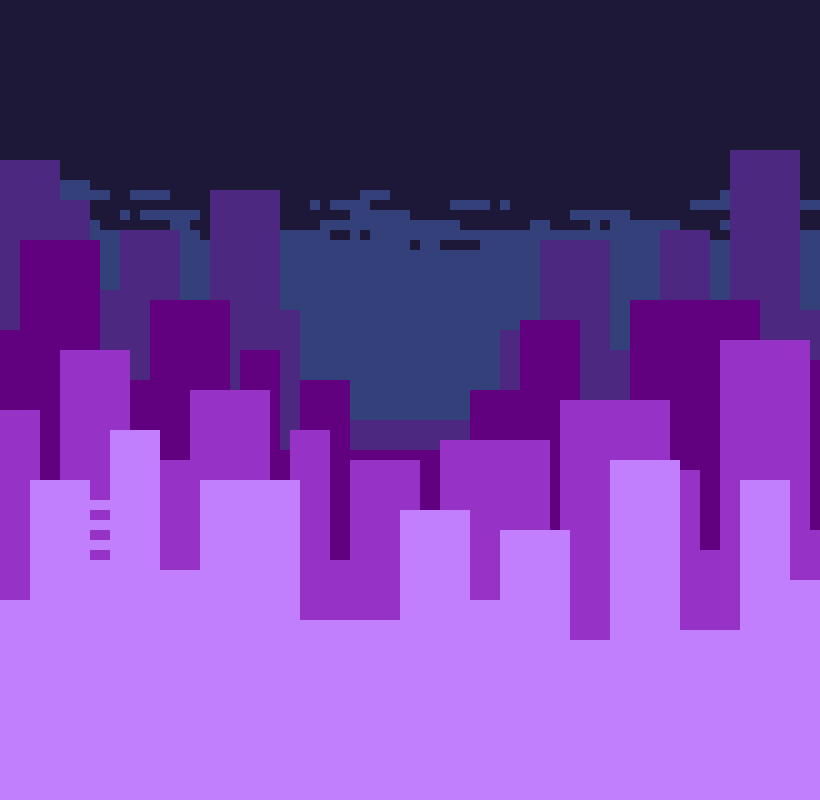
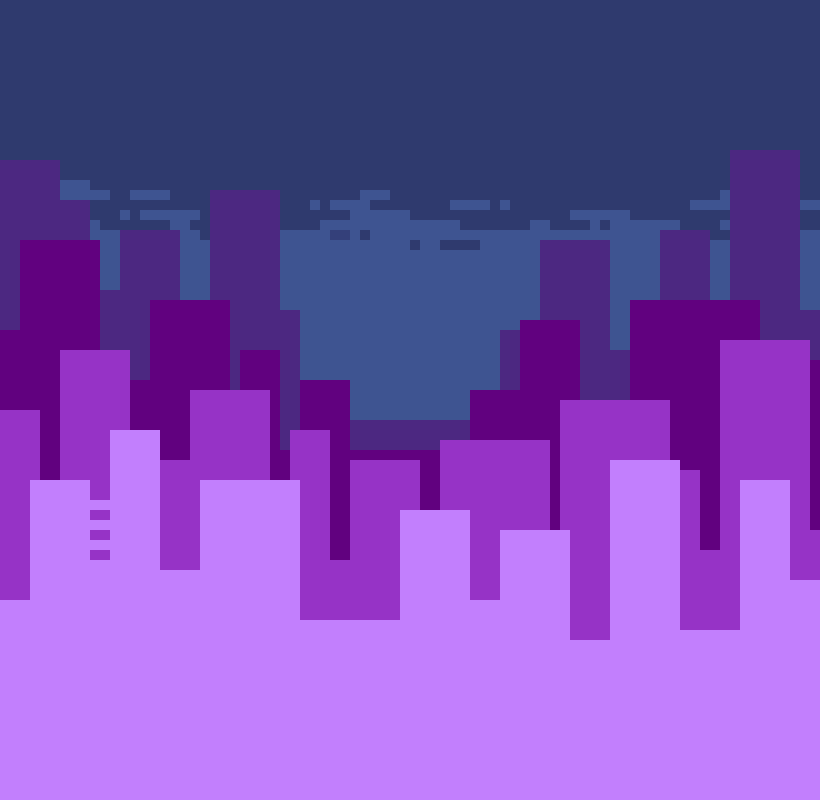
[Menu] mostrar el nivel de sonido actual

Changed region(s): [[0.0, 0.0, 1.0, 0.3125]]

diff --git a/src/menu/button.py b/src/menu/button.py
@@ -66,7 +66,7 @@ class ButtonBack(Button):
 class ButtonMusicLouder(Button):
 
     def __init__(self, screen):
-        Button.__init__(self, screen, 'menu/volume-up.png', (450, 140), 50, 50)
+        Button.__init__(self, screen, 'menu/volume-up.png', (490, 140), 50, 50)
 
     def action(self):
         self.screen.menu.music_louder()
@@ -84,10 +84,11 @@ class ButtonMusicLower(Button):
 class ButtonSoundLouder(Button):
 
     def __init__(self, screen):
-        Button.__init__(self, screen, 'menu/volume-up.png', (450, 240), 50, 50)
+        Button.__init__(self, screen, 'menu/volume-up.png', (490, 240), 50, 50)
 
     def action(self):
         self.screen.menu.sound_louder()
+
 
 class ButtonSoundLower(Button):
 

diff --git a/src/menu/screen.py b/src/menu/screen.py
@@ -89,5 +89,9 @@ class ScreenGUIOptions(ScreenGUI):
         font = pg.font.SysFont('purisa', 26)
         text1 = font.render('Volume settings:', True, (0, 0, 0))
         text2 = font.render('Sounds settings:', True, (0, 0, 0))
+        text3 = font.render(str(int(self.menu.mixer.get_music_volume() * 10)), True, (0, 0, 0))
+        text4 = font.render(str(int(self.menu.mixer.get_sound_volume() * 10)), True, (0, 0, 0))
         self.screen.blit(text1, (80, 100))
         self.screen.blit(text2, (80, 200))
+        self.screen.blit(text3, (450, 100))
+        self.screen.blit(text4, (450, 200))

diff --git a/src/game/mixer.py b/src/game/mixer.py
@@ -27,9 +27,11 @@ class Mixer:
     def load_sound(sound_file):
         return mixer.Sound(assets.path_to("sounds", sound_file)) if sound_file else None
 
-    @staticmethod
-    def get_volume():
-        return mixer.music.get_volume()
+    def get_music_volume(self):
+        return self.current_music_volume
+
+    def get_sound_volume(self):
+        return self.current_sound_volume
 
     def load_new_profile(self, sound_dto):
         self.jump_sound = self.load_sound(sound_dto.jump)
